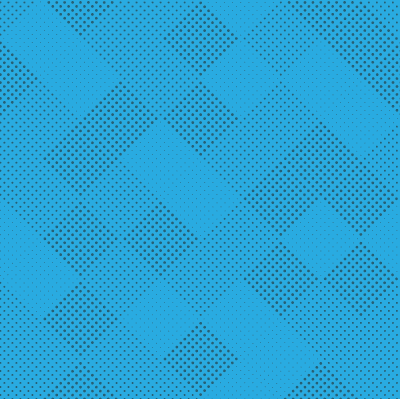
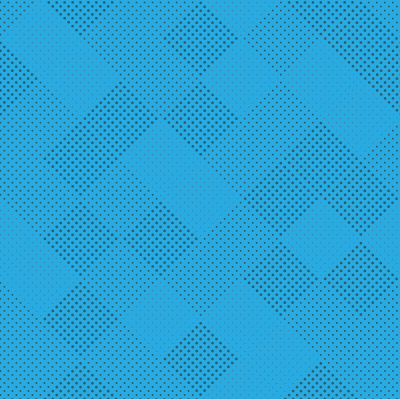
Fixed the category page, updated the categories code on the blog and post pages. Updated/fixed the blue halftone image.

diff --git a/_layouts/category.html b/_layouts/category.html
@@ -5,11 +5,15 @@ search_engine_optimization:
   share_image_path:
 layout: page
 ---
+{% assign page_id = page.id | remove:'/blog/category/' %}
+<h2>Blog posts in: {{ page_id |  replace: '-', ' ' | capitalize }}</h2>
 
 <section class="blog-preface">{{ content }}</section>
 
 <section class="blog-wrapper">
-    {% for post in paginator.posts %}
+    {% for post in site.posts %}
+    {% if post.categories contains page_id %}
+
     <div class="blog-item clearfix">
         <div class="left-image">
             {% if post.image_path %}
@@ -24,29 +28,23 @@ layout: page
         <div class="right-blog">
             <h3><a href="{{ post.url }}">{{ post.title }}</a></h3>
             <p>posted {{ post.date | date: "%a, %b %d, %Y" }}</p>
-            {% for cat in post.categories %}
-            <p class="category-label">Category: <a href="{{ cat | prepend: '/blog/category/' | append: '/' }}">{{ cat | replace: '-', ' ' | capitalize }}</a></p>
+
+            {% if post.categories %}
+            <p class="category-label">Categories: 
+            {% for cat in post.categories %} <a href="{{ cat | prepend: '/blog/category/' | append: '/' }}">{{ cat | replace: '-', ' ' | capitalize }}</a>
             {% endfor %} 
+            </p>
+            {% endif %}
+            
             {% if post.description %}
             <p>{{ post.description }}</p>
             {% endif %}
         </div>
     </div>
-    {% endfor %}
-    <!-- Pagination links -->
-    {% if paginator.total_pages > 1 %}
-    <div class="pagination">
-        {% if paginator.previous_page %}
-        <a href="{{ paginator.previous_page_path | prepend: site.baseurl | replace: '//', '/' }}">&laquo; Prev</a> {% else %}
-        <span>&laquo; Prev</span> {% endif %} {% for page in (1..paginator.total_pages) %} {% if page == paginator.page %}
-        <em>{{ page }}</em> {% elsif page == 1 %}
-        <a href="{{ paginator.previous_page_path | prepend: site.baseurl | replace: '//', '/' }}">{{ page }}</a> {% else %}
-        <a href="{{ '/blog/:num' | prepend: site.baseurl | replace: '//', '/' | replace: ':num', page }}">{{ page }}</a> {% endif %} {% endfor %} {% if paginator.next_page %}
-        <a href="{{ paginator.next_page_path | prepend: site.baseurl | replace: '//', '/' }}">Next &raquo;</a> {% else %}
-        <span>Next &raquo;</span> {% endif %}
-    </div>
     {% endif %}
+  {% endfor %}
 </section>
+
 {% comment %} <section class="blog-preface">{{ content }}</section>
 <section class="blog-wrapper">
   {% assign page_id = page.id | remove:'/blog/category/' %}

diff --git a/_layouts/blog.html b/_layouts/blog.html
@@ -24,9 +24,14 @@ layout: page
         <div class="right-blog">
             <h3><a href="{{ post.url }}">{{ post.title }}</a></h3>
             <p>posted {{ post.date | date: "%a, %b %d, %Y" }}</p>
-            {% for cat in post.categories %}
-            <p class="category-label">Category: <a href="{{ cat | prepend: '/blog/category/' | append: '/' }}">{{ cat | replace: '-', ' ' | capitalize }}</a></p>
+            
+            {% if post.categories %}
+            <p class="category-label">Categories: 
+            {% for cat in post.categories %} <a href="{{ cat | prepend: '/blog/category/' | append: '/' }}">{{ cat | replace: '-', ' ' | capitalize }}</a>
             {% endfor %} 
+            </p>
+            {% endif %}
+
             {% if post.description %}
             <p>{{ post.description }}</p>
             {% endif %}

diff --git a/_layouts/post.html b/_layouts/post.html
@@ -14,9 +14,12 @@ layout: default
         <h1>{{page.title}}</h1>
         <p>posted {{ page.date | date: "%a, %b %d, %Y" }}</p>
 
-        {% for cat in page.categories %}
-        <p class="category-label">Category: <a href="{{ cat | prepend: '/blog/category/' | append: '/' }}">{{ cat | replace: '-', ' ' | capitalize }}</a></p>
-        {% endfor %}
+        {% if page.categories %}
+            <p class="category-label">Categories: 
+            {% for cat in page.categories %} <a href="{{ cat | prepend: '/blog/category/' | append: '/' }}">{{ cat | replace: '-', ' ' | capitalize }}</a>
+            {% endfor %} 
+            </p>
+        {% endif %}
 
         <div>{{ content }}</div>
         
